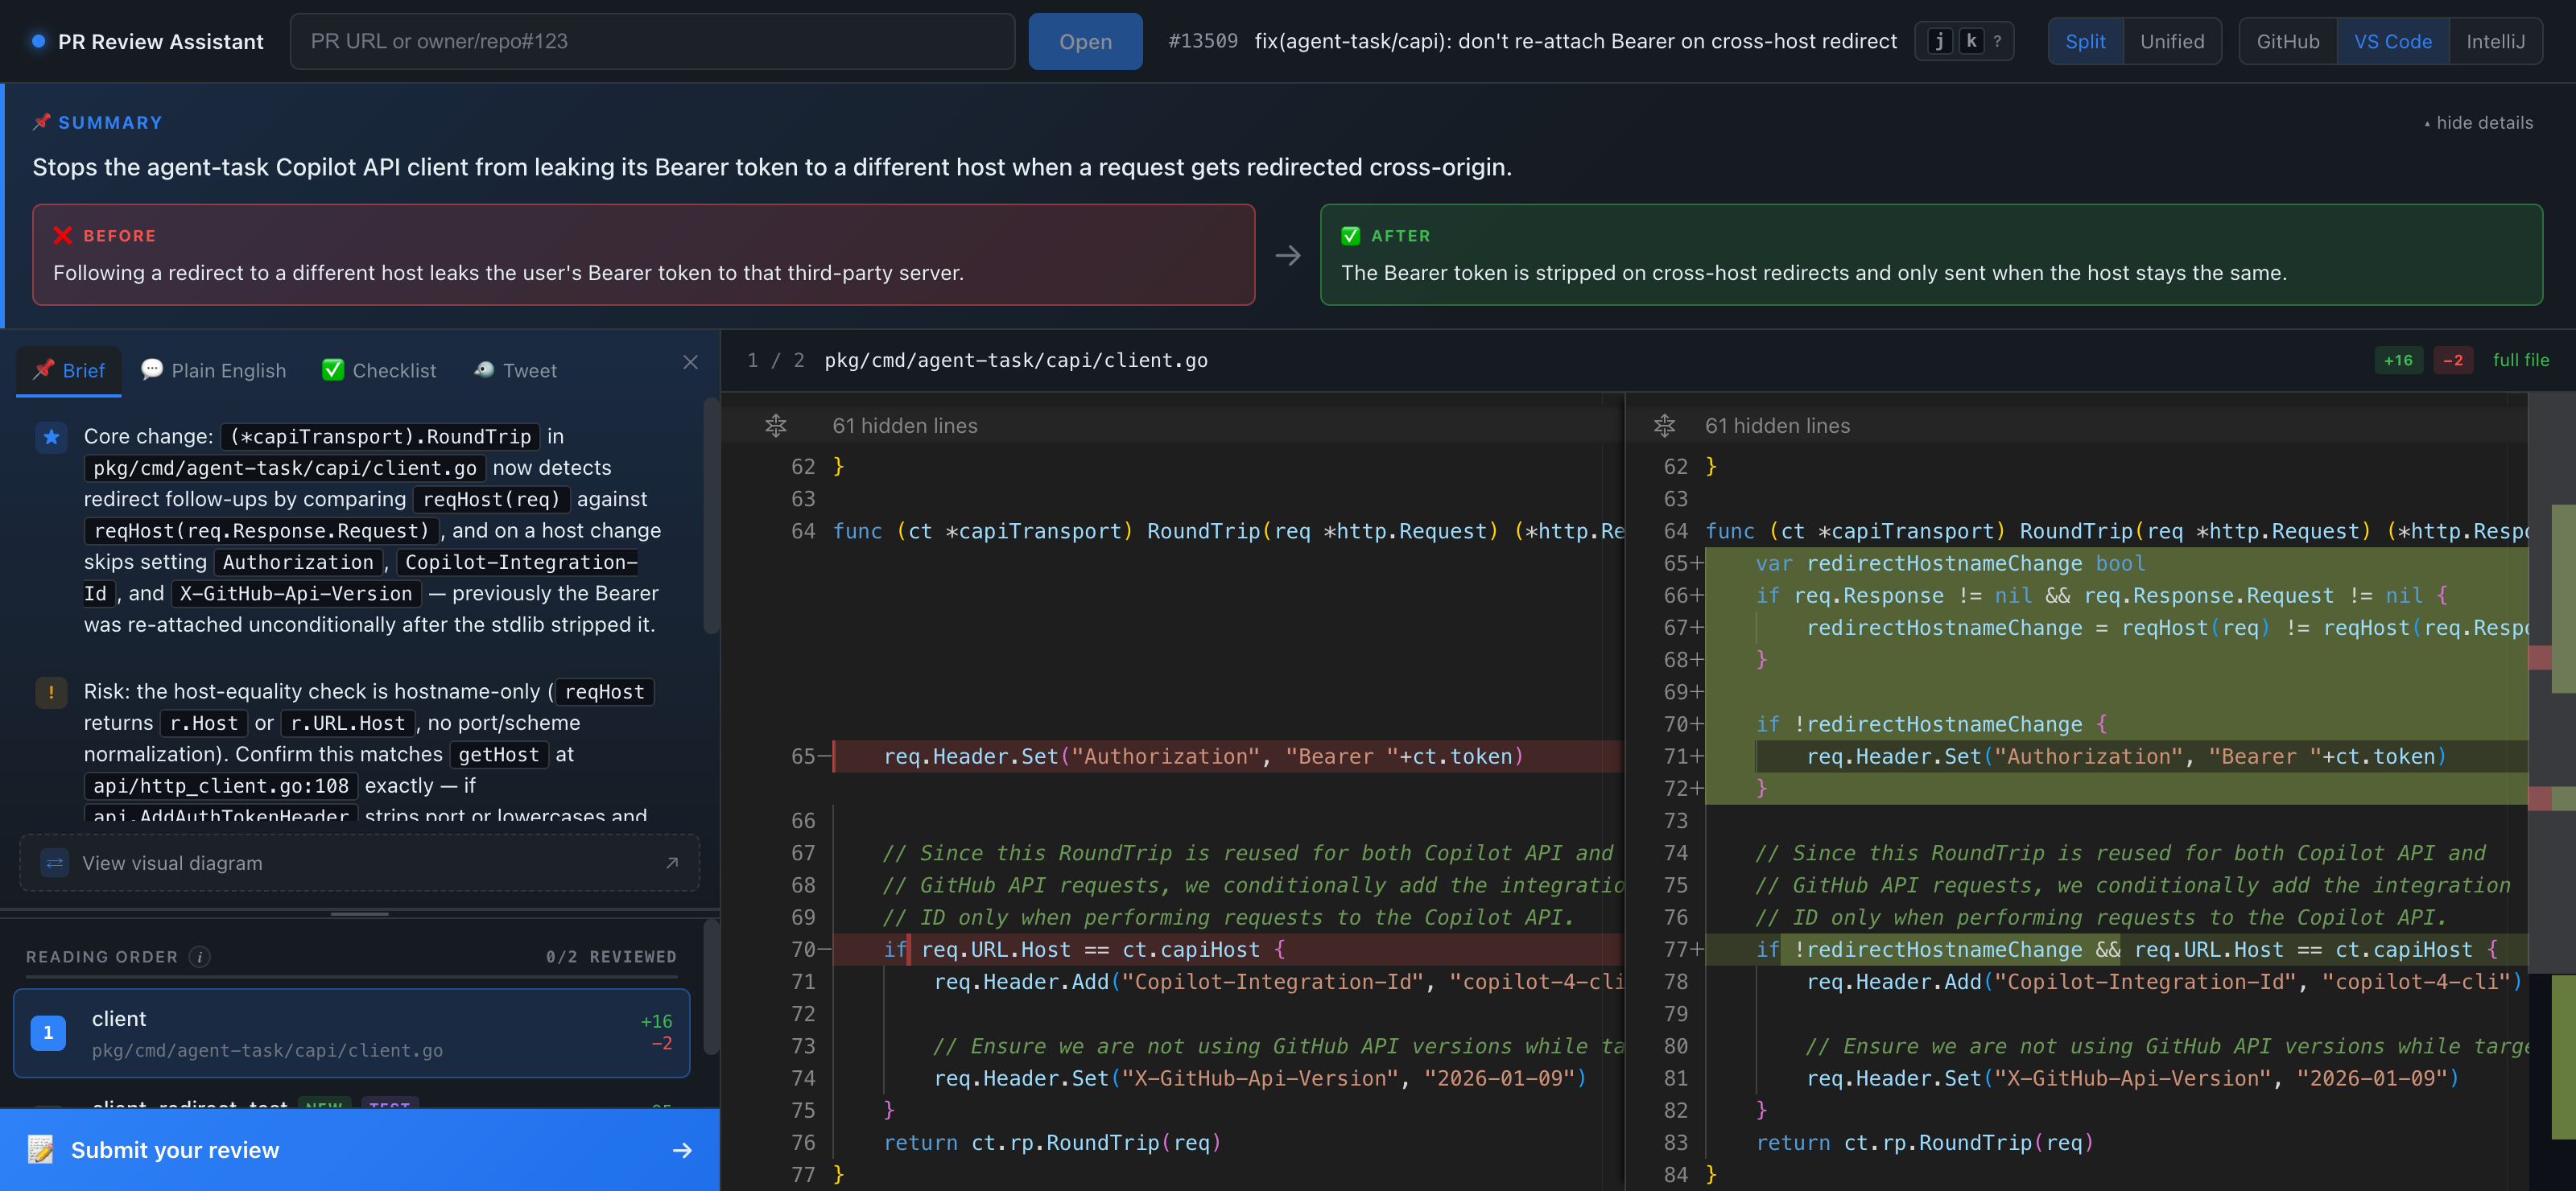
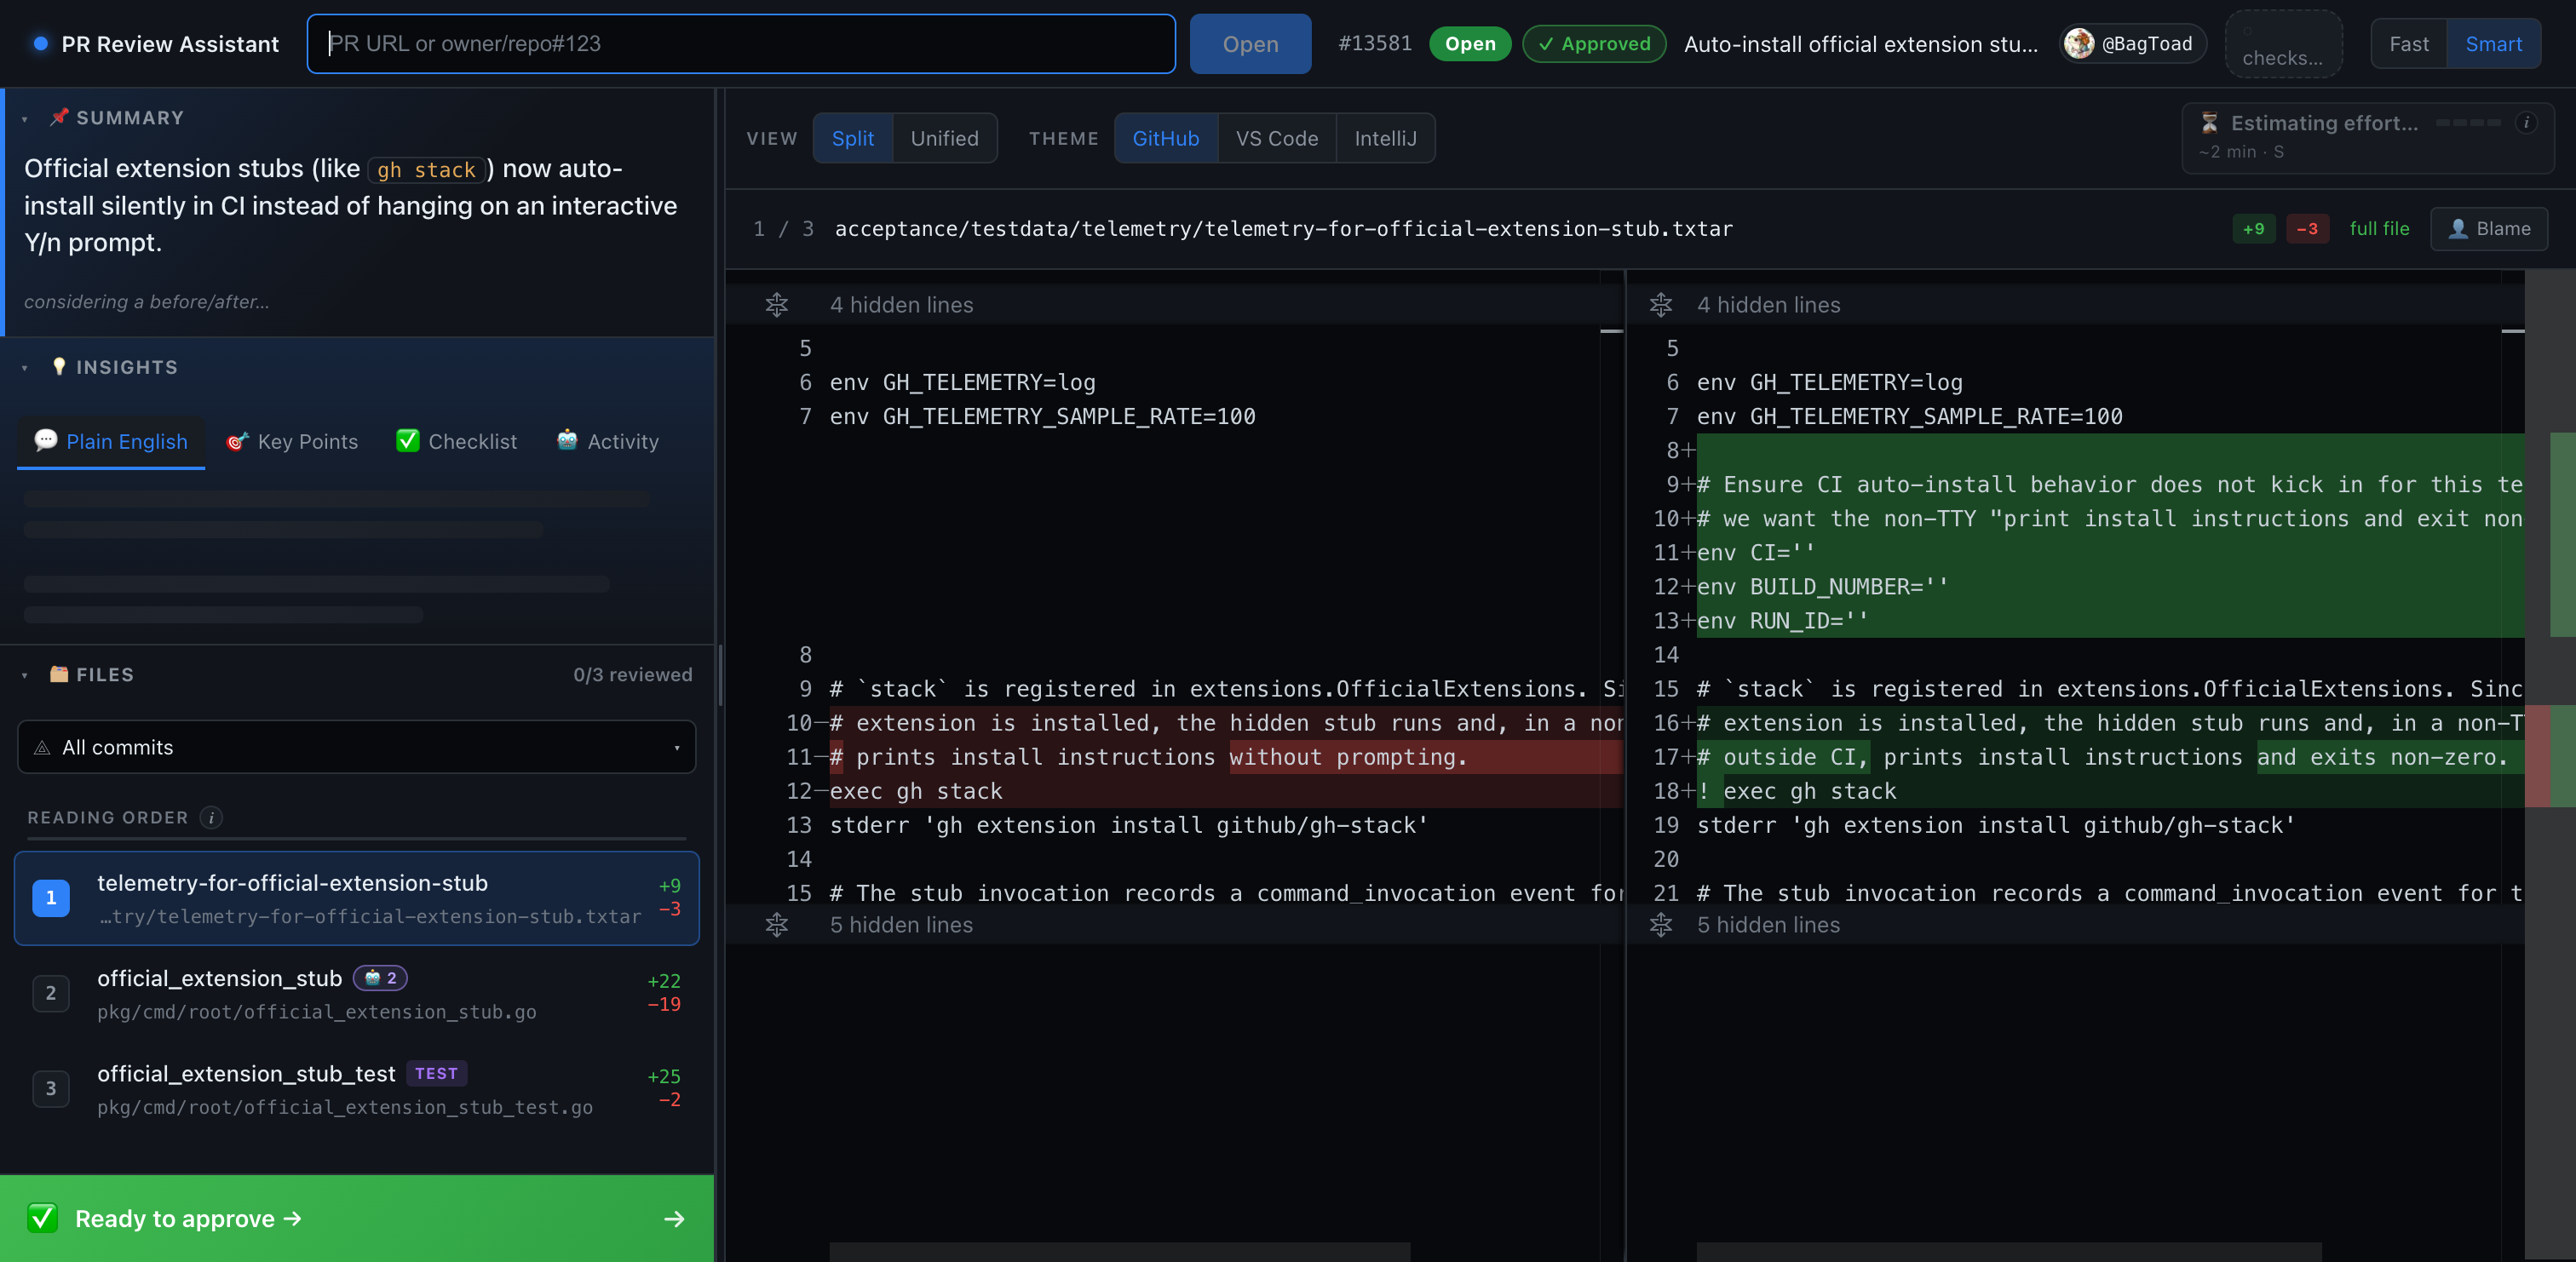
docs: rewrite README for the current app + refresh screenshot (#13)
The README still described the old UI (Brief/Tweet tabs, top summary band,
'43 tests'). Rewrite it shorter and accurate to today: Key Points / Jira-aware
Checklist tabs, left-rail layout with collapsible sections, PR status badges +
status-aware footer, Fast/Smart model toggle. Trimmed ~45% and reorganized
into scannable 'Understand / Read / Review' groups. Regenerated the screenshot
to match the current layout.

diff --git a/README.md b/README.md
@@ -1,62 +1,47 @@
 # PR Review Assistant
 
-A localhost web app that makes reviewing GitHub pull requests faster by streaming AI-generated context next to a real diff viewer — so you understand what a PR does before you read a single line of code.
+A localhost web app that helps you understand a GitHub pull request *fast* — a concrete TL;DR and a real diff viewer, side by side — before you read a line of code.
 
-Runs entirely on your machine. Uses your local `gh` CLI for GitHub access and your local `claude` CLI for AI. **Your code never leaves your machine** except as part of your own `claude` CLI's prompt to Anthropic, the same path you'd use directly.
+Runs entirely on your machine: your local `gh` CLI for GitHub, your local `claude` CLI for AI. **No API keys, no telemetry.** Your code only goes where your own `claude` CLI already sends it.
 
-![PR Review Assistant — reviewing a public PR from cli/cli](docs/screenshot.png)
-
-*Above: reviewing [cli/cli#13509](https://github.com/cli/cli/pull/13509). Summary card with a one-sentence headline + Before / After. Left rail: TL;DR tabs + reading-ordered file list. Right pane: Monaco side-by-side diff with inline reviewer comments from Cursor BugBot, Claude Code, etc.*
+![PR Review Assistant reviewing a real PR](docs/screenshot.png)
 
 ---
 
-## First run in 30 seconds
+## Quick start
 
 ```bash
-git clone https://github.com/shacharPash/pr-review-assistant.git
-cd pr-review-assistant
-npm start
+git clone https://github.com/shacharPash/pr-review-assistant.git && cd pr-review-assistant && npm start
 ```
 
-`npm start` runs `bin/setup.sh` (checks tools, installs deps, copies `.env`) then `npm run dev`. Browser opens to `http://localhost:5173`. Paste any GitHub PR URL and hit **Open**.
+`npm start` checks your tools, installs deps, then opens `http://localhost:5173`. Paste any GitHub PR URL and hit **Open**. Already cloned it? Just `git pull && npm start`.
 
-If `gh` or `claude` aren't installed, the setup script tells you exactly what to install — and the app surfaces a friendly red banner at the top instead of crashing.
+*(Missing `gh` or `claude`? The setup script and a banner in the app tell you exactly what to install — the diff still works without AI.)*
 
 ---
 
-## What's in the box
+## What you get
 
-### AI-generated context
-- **Summary card** — one-sentence headline plus a **Before / After** comparison
-- **TL;DR tabs** — pick the depth that fits the moment:
-  - 💬 **Plain English** — friendly two-paragraph explanation (default; fastest)
-  - 📌 **Brief** — concrete bullets: Core change, Risk, Note
-  - ✅ **Checklist** — actionable items to tick off before approving
-  - 🐦 **Tweet** — under-280-char punchline
-  - 🤖 **Activity** — PR-level reviewer summaries (Claude Code, Cursor BugBot, SonarCloud, Jit, …)
+**Understand the PR** — a left panel with everything you need to get oriented:
+- **Summary** — one-sentence headline + a **Before / After** comparison
+- **🎯 Key Points** — concrete cards naming the *core change*, the *main risk*, and *context* (per file/line)
+- **💬 Plain English** — a friendly two-paragraph explanation
+- **✅ Checklist** — things to verify before approving; built from the linked **Jira ticket's acceptance criteria** when there is one, otherwise AI-generated
+- **🤖 Activity** — summaries from other reviewers/bots (Claude Code, Cursor BugBot, SonarCloud, …)
+- A **PR status badge** in the header (Draft / Open / Merged / Closed) + the review decision
+- Collapse any panel to give the **code the full screen**
 
-Short outputs (headline, tweet, plain-english, checklist) run on Claude Sonnet for speed; the deeper Brief uses your CLI default.
+**Read the code** — a real Monaco side-by-side diff:
+- Syntax highlighting + 3 themes; **git blame** gutter with age coloring
+- **Signal over noise** — files reading-ordered (code before tests); lockfiles/generated/imports-only hunks hidden by default
+- **Expand context** around any hunk without opening the whole file
+- **Commit selector** — all commits, one commit, or "since my last review"
 
-### Diff experience
-- **Real Monaco side-by-side diff** with syntax highlighting + three themes (GitHub Dark, VS Code Dark+, IntelliJ Dark)
-- **Reading order** — files reordered so interfaces and production code come before tests; noise files (lockfiles, generated, `.idea/`) collapsed
-- **Hunk-noise filtering** — imports-only and whitespace-only hunks hidden by default with a `⋯` gap marker
-- **Expand context** — `↑ Expand 10` / `↓ Expand 10` chips around every hunk to reveal unchanged surrounding code without flipping to full-file mode
-- **Git blame** — toggle the gutter to show the date/author/age of every line, IntelliJ-style heat coloring (recent → green, ancient → red-brown)
-- **Commit selector** — GitHub-style picker: All commits / specific commit / since your last review
+**Review** (open PRs only):
+- Inline line comments — with **✨ AI suggest-fix** and **✨ enhance-comment** helpers
+- Submit as a GitHub review (Approve / Comment / Request changes). On merged/closed PRs the review actions are replaced with a status note — no false "Ready to approve".
 
-### Review tools
-- **Reviewer & bot comments inline in the diff** — Cursor BugBot, Claude Code, Copilot, Augment, SonarCloud, Jit, etc., each color-coded by brand, foldable per card, hide-all toggle
-- **Inline line comments** — hover any line, click the blue `+`, drag to extend the range. Inside the composer:
-  - `⤷ Suggest change` — inserts a ````suggestion` block prefilled with the original code
-  - `✨ AI suggest fix` — Claude proposes a replacement based on your half-baked comment
-  - `✨ Enhance comment` — Claude polishes your draft into a clear, specific review note
-- **Submit as a GitHub review** — Approve / Comment / Request changes, multi-line ranges supported
-- **Pending comments list** — see exactly which file/line each unposted comment lives on; click to jump, ✕ to discard
-
-### Optional
-- **Jira badge + setup popover** — clickable ticket links, with full-mode fetching of title/status if you configure it
-- **Per-PR localStorage** — files you marked reviewed and pending comments persist across reloads, keyed by commit SHA
+**Speed/cost** — a **Fast / Smart** toggle (Sonnet everywhere vs. Opus where reasoning helps) and a per-session token-usage badge.
 
 ---
 
@@ -64,131 +49,53 @@ Short outputs (headline, tweet, plain-english, checklist) run on Claude Sonnet f
 
 | Tool | Why | Install |
 |---|---|---|
-| Node.js 20+ | Runtime (uses `--env-file-if-exists`) | https://nodejs.org |
-| `gh` CLI | Fetches the PR + diff + lets you post reviews + lists reviewer comments | https://cli.github.com — then `gh auth login` |
-| `claude` CLI | Generates the AI summaries / suggestions | https://claude.ai/code |
+| Node.js 20+ | Runtime | https://nodejs.org |
+| `gh` CLI | Fetch the PR/diff, post reviews | https://cli.github.com → `gh auth login` |
+| `claude` CLI | AI summaries & suggestions | https://claude.ai/code |
 
-`npm start` checks all three and gives one-line fix hints if anything is missing.
+`npm start` verifies all three and prints fix hints if any are missing.
 
 ---
 
-## Optional: Jira integration
+## Optional: Jira
 
-If your PRs reference Jira tickets like `RED-12345`, the app can render clickable badges and fetch the ticket title/status into a popover.
-
-Copy `.env.example` to `.env` (the setup script does this for you) and fill in:
+If your PRs reference tickets like `RED-12345`, copy `.env.example` to `.env` (the setup script does this) and add:
 
 ```bash
-# Link-only mode — clickable badges, no ticket details
-JIRA_BASE_URL=https://your-org.atlassian.net
-
-# Full mode — also shows title/status/type in the popover
-JIRA_EMAIL=[email redacted]
-JIRA_API_TOKEN=...   # https://id.atlassian.com/manage-profile/security/api-tokens
+JIRA_BASE_URL=https://your-org.atlassian.net   # clickable ticket badges
+JIRA_EMAIL=[email redacted]                     # + fetch title/status and
+JIRA_API_TOKEN=...                              #   power the Jira-aware Checklist
 ```
 
-The `.env` is gitignored. Restart `npm run dev` after editing it.
-
-**Note:** the Jira ticket title is fed into AI prompts as a one-line linkage hint. The full description is NOT (it was diluting prompt rules and producing meta-prose). If you want the description visible, read it in the badge popover.
-
----
-
-## Using it
-
-### Navigate files
-`j` / `k` to move down/up the reading-order list, or click any file. Files tagged "noise" collapse into one row by default; click "Show N noise files" to reveal.
-
-### Comment on a line
-Hover any line in the diff → blue `+` appears in the gutter. Click for a single-line comment, or **press and drag** the `+` up or down to comment on a multi-line range.
-
-In the composer:
-- `⤷ Suggest change` — inserts a ` ```suggestion ` block prefilled with the original lines
-- `✨ AI suggest fix` — Claude proposes a replacement based on your draft
-- `✨ Enhance comment` — Claude polishes your draft
-- Adjust the line range with the `−` / `+` controls in the composer header
-
-### See others' comments
-The **🤖 Activity** tab in the TLDR panel shows PR-level reviewer summaries. Line-anchored comments from bots and humans appear **inline in the diff** as colored cards. Each card folds (`▾ / ▸`), and the diff-header `💬 Reviews N` button hides them all on the current file.
-
-### Expand context
-Each hunk has small `↑ Expand 10` / `↓ Expand 10` chips at its top and bottom. Click to splice in unchanged file context. Caps at the gap to the next/prev hunk and at file boundaries.
-
-### Pick a commit
-The **All commits ▾** dropdown in the left rail filters the diff to a single commit or to "Changes since your last review" (lights up after you've posted a review).
-
-### Submit your review
-The blue button at the bottom of the left rail. Three options:
-- ✅ Approve
-- 💬 Comment (no approval, just feedback)
-- 🛑 Request changes
-
-All inline comments + an optional overall summary post to GitHub as a single review via `gh api .../reviews`.
-
-### Keyboard shortcuts
-Click the `j  k  ?` badge in the header for the full list.
-
----
-
-## Privacy
-
-- **Your code never leaves your machine** as part of this app. The Express server runs on `localhost`, never opens an outbound socket except for what `gh` and `claude` already do on your behalf.
-- **`gh`** uses your existing GitHub auth — same as when you run `gh` directly in a terminal.
-- **`claude`** uses your existing Claude Code authentication. Prompts (which include diff content) go to Anthropic via your Claude account, the same path you'd use with `claude` directly.
-- **`.env`** with Jira tokens stays on disk, gitignored. No telemetry, no usage tracking.
-
-If you deploy this for a team behind a shared server (out of scope for v1), reassess: prompts would flow through whatever account the server runs as.
+The `.env` is gitignored. Restart after editing.
 
 ---
 
 ## How it works
 
-- **Server** (`/server`): Node + Express, with Vite middleware in dev. Wraps the local `gh` and `claude` CLIs, parses unified diffs, and streams AI output over SSE.
-- **Client** (`/client`): React + TypeScript + Zustand. Monaco for the diff viewer.
+- **Server** (`/server`) — Node + Express (Vite middleware in dev). Wraps the `gh` and `claude` CLIs, parses diffs, streams AI output over SSE.
+- **Client** (`/client`) — React + TypeScript + Zustand; Monaco for the diff.
 - **Shared types** (`/shared`).
 
-Single command, single port, no database. PRs are cached in memory keyed by `headSha` so re-opening the same PR is instant. When the PR gets new commits, the cache invalidates naturally.
-
----
-
-## Project structure
-
-```
-/server
-  /services    ghFetcher · diffParser · claudeRunner · noiseRules · readingOrder
-               jira · reviewCommentsFetcher · cache · fileContent · healthCheck
-  /routes      pr · tldr · headline · beforeAfter · diagram · explain · complexity
-               aiComment · file · review · blame · scopedDiff · reviewComments
-               · health
-/client
-  /src
-    /components   SummaryCard · TLDRPanel · FileSidebar · DiffViewer
-                  InlineCommentsLayer · ReviewCommentsLayer · ReviewActivityPane
-                  CommitSelector · BlameHoverProvider · JiraBadge · HealthBanner
-                  ReviewFooter · ...
-    /state        store (Zustand) · preferences (Zustand + localStorage)
-/shared           types · personas · jira · reviewComments
-/bin              setup.sh
-.github/workflows ci.yml (typecheck + test + build)
-```
+Single command, single port, no database. PRs are cached in memory by commit SHA, so re-opening one is instant and new commits invalidate it automatically.
 
 ---
 
 ## Scripts
 
 ```bash
-npm start            # Setup + dev server (one-step for first-time users)
-npm run setup        # Just the checks + install + .env (no server)
-npm run dev          # Server + Vite middleware on :5173 (assumes deps installed)
-npm run build        # Production build of the client
-npm run typecheck    # tsc --noEmit across server + client
-npm test             # Run unit tests (vitest, 43 tests)
+npm start        # setup + dev server (first-time friendly)
+npm run dev      # dev server on :5173 (deps already installed)
+npm run build    # production build
+npm run typecheck
+npm test         # unit tests (vitest)
 ```
 
 ---
 
-## Contributing
+## Privacy
 
-CI runs on every PR (typecheck + tests + build). Pure-function services have unit tests under `__tests__/` — please add one when you touch parsing or classification logic. Components are tested by hand for now.
+The server runs on `localhost` and opens no outbound connections beyond what `gh` and `claude` already do for you. `gh` uses your existing GitHub auth; `claude` sends prompts (including diff content) through your own Claude account — the same path as running `claude` yourself. No telemetry.
 
 ---
 